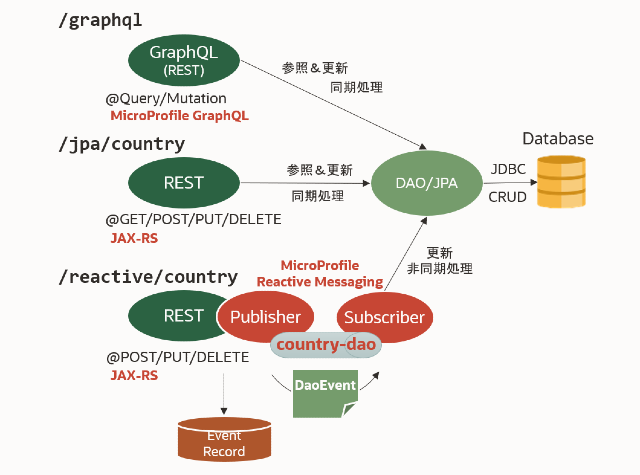
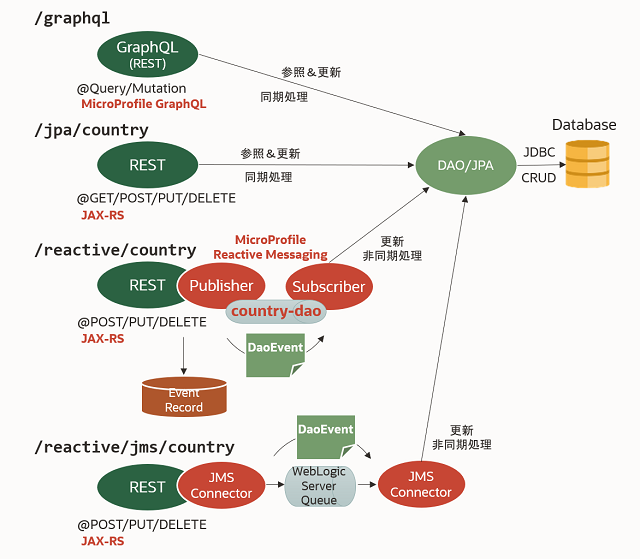
commented out jms connector demo

Changed region(s): [[0.0625, 0.0, 0.9688, 1.0], [0.625, 0.5011, 0.75, 0.5895]]

diff --git a/src/test/java/oracle/demo/reactive/ReactiveJmsResourceTest.java b/src/test/java/oracle/demo/reactive/ReactiveJmsResourceTest.java
@@ -16,12 +16,12 @@ import org.junit.jupiter.api.Test;
 import io.helidon.microprofile.tests.junit5.HelidonTest;
 import oracle.demo.jpa.Country;
 
-@HelidonTest
+//@HelidonTest
 public class ReactiveJmsResourceTest{
 
     @Inject private WebTarget webTarget;
 
-    @Test
+    //@Test
     public void testCRUDCountry(){
         
         // warm-up
@@ -48,12 +48,12 @@ public class ReactiveJmsResourceTest{
 
         // update
         Form form = new Form().param("name", "People's Republic of China");
-      response = webTarget.path("/reactive/jms/country/86").request().put(Entity.form(form));
+        response = webTarget.path("/reactive/jms/country/86").request().put(Entity.form(form));
         Assertions.assertEquals(204, response.getStatus());
         delay(1000);
         jsonObject = webTarget.path("/jpa/country/86").request().get(JsonObject.class);
         Assertions.assertEquals(86, jsonObject.getInt("countryId"));
-        Assertions.assertEquals("People’s Republic of China", jsonObject.getString("countryName"));
+        Assertions.assertEquals("People's Republic of China", jsonObject.getString("countryName"));
 
         countries = new Country[]{ new Country(61, "Commonwealth of Australia") };
         response = webTarget.path("/reactive/jms/country").request().put(Entity.entity(countries, MediaType.APPLICATION_JSON));

diff --git a/src/test/java/oracle/demo/reactive/ReactiveResourceTest.java b/src/test/java/oracle/demo/reactive/ReactiveResourceTest.java
@@ -53,7 +53,7 @@ public class ReactiveResourceTest{
         delay(1000);
         jsonObject = webTarget.path("/jpa/country/86").request().get(JsonObject.class);
         Assertions.assertEquals(86, jsonObject.getInt("countryId"));
-        Assertions.assertEquals("People’s Republic of China", jsonObject.getString("countryName"));
+        Assertions.assertEquals("People's Republic of China", jsonObject.getString("countryName"));
 
         countries = new Country[]{ new Country(61, "Commonwealth of Australia") };
         response = webTarget.path("/reactive/country").request().put(Entity.entity(countries, MediaType.APPLICATION_JSON));

diff --git a/src/main/java/oracle/demo/reactive/ReactiveJmsResource.java b/src/main/java/oracle/demo/reactive/ReactiveJmsResource.java
@@ -52,12 +52,12 @@ public class ReactiveJmsResource {
 
     @Inject private CountryDAO dao;
 
-    @Outgoing("to-jms")
+    //@Outgoing("to-jms")
     public Publisher<Message<String>> preparePublisher() {
         return ReactiveStreams.fromPublisher(FlowAdapters.toPublisher(publisher)).buildRs();
     }
 
-    @Incoming("from-jms")
+    //@Incoming("from-jms")
     @Acknowledgment(Acknowledgment.Strategy.MANUAL)
     public CompletionStage<?> consume(Message<String> message) {
         final DaoEvent event = jsonb.fromJson(message.getPayload(), DaoEvent.class);
